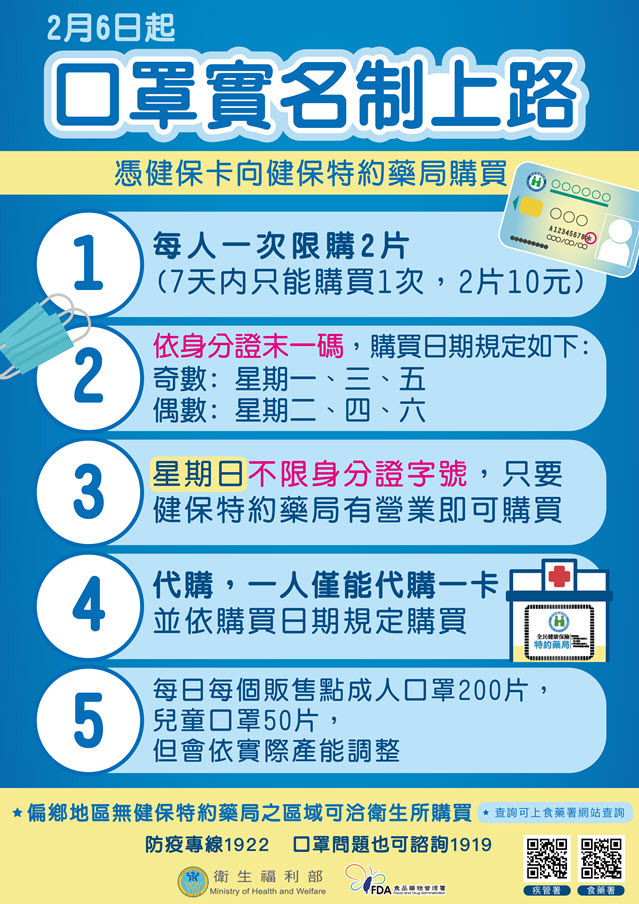
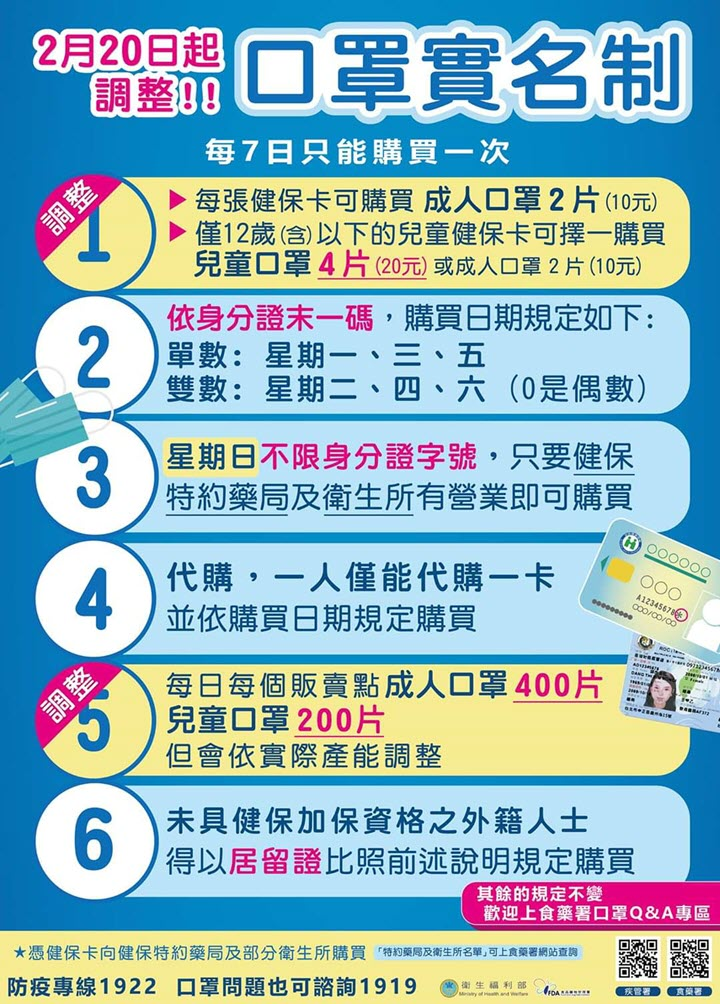
更新 2/20 公布資訊圖檔。修改雙平台啟動畫面設定。

diff --git a/Taiwan-AskFaceMaskApp/Taiwan-AskFaceMaskApp/AppShell.xaml b/Taiwan-AskFaceMaskApp/Taiwan-AskFaceMaskApp/AppShell.xaml
@@ -9,7 +9,7 @@
     mc:Ignorable="d">
     <Shell.FlyoutHeader>
         <StackLayout BackgroundColor="#EFEFEF">
-            <Image Aspect="AspectFill" HeightRequest="524" Source="facemaskrealname.jpg" />
+            <Image Aspect="AspectFit" HeightRequest="424" Source="facemaskrealname.jpg" />
         </StackLayout>
     </Shell.FlyoutHeader>
     <FlyoutItem Title="搜尋藥局" Icon="drugstore.png" Route="DrugStore">

diff --git a/Taiwan-AskFaceMaskApp/Taiwan-AskFaceMaskApp.Android/SplashActivity.cs b/Taiwan-AskFaceMaskApp/Taiwan-AskFaceMaskApp.Android/SplashActivity.cs
@@ -1,0 +1,39 @@
+using Android.App;
+using Android.Content;
+using Android.Content.PM;
+using Android.OS;
+using Android.Support.V7.App;
+using Android.Util;
+using System.Threading.Tasks;
+
+namespace Taiwan_AskFaceMaskApp.Droid
+{
+    [Activity(Theme = "@style/MyTheme.Splash", MainLauncher = true, NoHistory = true)]
+    public class SplashActivity : AppCompatActivity
+    {
+        static readonly string TAG = "X:" + typeof(SplashActivity).Name;
+
+        public override void OnCreate(Bundle savedInstanceState, PersistableBundle persistentState)
+        {
+            base.OnCreate(savedInstanceState, persistentState);
+            Log.Debug(TAG, "SplashActivity.OnCreate");
+        }
+
+        // Launches the startup task
+        protected override void OnResume()
+        {
+            base.OnResume();
+            Task startupWork = new Task(() => 
+            {
+                Log.Debug(TAG, "Performing some startup work that takes a bit of time.");
+                StartActivity(new Intent(Application.Context, typeof(MainActivity)));
+                Log.Debug(TAG, "Startup work is finished - starting MainActivity.");
+            });
+            startupWork.Start();
+        }
+
+        // Prevent the back button from canceling the startup process
+        public override void OnBackPressed() { }
+
+    }
+}

diff --git a/Taiwan-AskFaceMaskApp/Taiwan-AskFaceMaskApp.Android/Resources/Resource.designer.cs b/Taiwan-AskFaceMaskApp/Taiwan-AskFaceMaskApp.Android/Resources/Resource.designer.cs
@@ -87,6 +87,9 @@ namespace Taiwan_AskFaceMaskApp.Droid
 			// aapt resource value: 0x7F020005
 			public const int search = 2130837509;
 			
+			// aapt resource value: 0x7F020006
+			public const int splash_screen = 2130837510;
+			
 			static Drawable()
 			{
 				global::Android.Runtime.ResourceIdManager.UpdateIdValues();
@@ -145,7 +148,10 @@ namespace Taiwan_AskFaceMaskApp.Droid
 			public const int icon_round = 2131034113;
 			
 			// aapt resource value: 0x7F050002
-			public const int launcher_foreground = 2131034114;
+			public const int launcher = 2131034114;
+			
+			// aapt resource value: 0x7F050003
+			public const int launcher_foreground = 2131034115;
 			
 			static Mipmap()
 			{
@@ -168,6 +174,15 @@ namespace Taiwan_AskFaceMaskApp.Droid
 			
 			// aapt resource value: 0x7F060002
 			public const int MainTheme_Base = 2131099650;
+			
+			// aapt resource value: 0x7F060003
+			public const int MyTheme = 2131099651;
+			
+			// aapt resource value: 0x7F060004
+			public const int MyTheme_Base = 2131099652;
+			
+			// aapt resource value: 0x7F060005
+			public const int MyTheme_Splash = 2131099653;
 			
 			static Style()
 			{

diff --git a/Taiwan-AskFaceMaskApp/Taiwan-AskFaceMaskApp.Android/MainActivity.cs b/Taiwan-AskFaceMaskApp/Taiwan-AskFaceMaskApp.Android/MainActivity.cs
@@ -1,20 +1,16 @@
-using System;
-
+
 using Android.App;
 using Android.Content.PM;
-using Android.Runtime;
-using Android.Views;
-using Android.Widget;
 using Android.OS;
-
+using Android.Runtime;
 using System.Collections.Concurrent;
 using Xamarin.Forms.GoogleMaps.Android;
-using AndroidBitmapDescriptor = Android.Gms.Maps.Model.BitmapDescriptor;
 using Xamarin.Forms.GoogleMaps.Android.Factories;
+using AndroidBitmapDescriptor = Android.Gms.Maps.Model.BitmapDescriptor;
 
 namespace Taiwan_AskFaceMaskApp.Droid
 {
-    [Activity(Icon = "@mipmap/icon", Theme = "@style/MainTheme", MainLauncher = true, ConfigurationChanges = ConfigChanges.ScreenSize | ConfigChanges.Orientation)]
+    [Activity(Icon = "@mipmap/icon", Theme = "@style/MainTheme", ConfigurationChanges = ConfigChanges.ScreenSize | ConfigChanges.Orientation)]
     public class MainActivity : global::Xamarin.Forms.Platform.Android.FormsAppCompatActivity
     {
         protected override void OnCreate(Bundle savedInstanceState)
